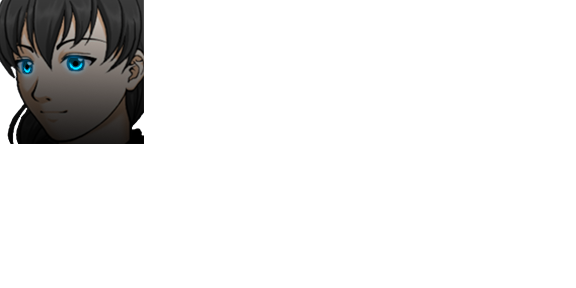
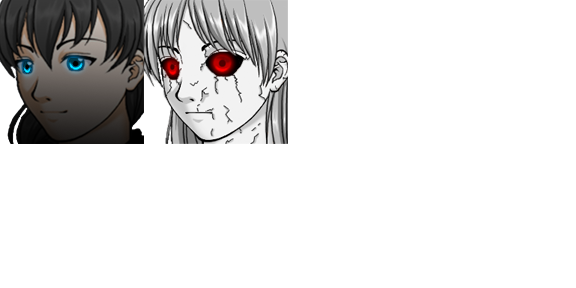
0.3.15.11.
- Нарисовал лицо Смерти.
- Интегрировал её в стартовый диалог с Сидрином.
- Задекорировал начальные кат-сцены.

Changed region(s): [[0.25, 0.0, 0.5, 0.5]]

diff --git a/js/plugins.js b/js/plugins.js
@@ -38,7 +38,7 @@ var $plugins =
 {"name":"GALV_LayerGraphics","status":true,"description":"(v.2.0) Create graphic layers for parallax mapping, fog, etc. View the 'Help' document for plugin commands and info.","parameters":{"Tile Size":"48"}},
 {"name":"GALV_EventSpawner","status":true,"description":"(v.1.8) Spawn events from a specified spawn map to a desired location.","parameters":{"Spawn Map Id":"87"}},
 {"name":"CheckEventTriggerTouchAllFollowers","status":true,"description":"","parameters":{}},
-{"name":"BBS_VersionDisplay","status":true,"description":"v1.02 Adds display of the game version to the title screen.\r\nSpecial Thanks to Tsukihime for all the help.\r\nSpecial Thanks to 'Ramza' Michael Sweeney for all the support.\r\n\r\n============================================================================\r\nParameters\r\n============================================================================","parameters":{"Game Version Number":"0.3.15.10","Game Version Font":"","Version Font Size":"20","Show Version Number?":"true","Version Text Color":"white","Version Outline Color":"black","Version Outline Width":"8","Title Italic":"false","Version Text Max Width":"Graphics.width / 3\r"}},
+{"name":"BBS_VersionDisplay","status":true,"description":"v1.02 Adds display of the game version to the title screen.\r\nSpecial Thanks to Tsukihime for all the help.\r\nSpecial Thanks to 'Ramza' Michael Sweeney for all the support.\r\n\r\n============================================================================\r\nParameters\r\n============================================================================","parameters":{"Game Version Number":"0.3.15.11","Game Version Font":"","Version Font Size":"20","Show Version Number?":"true","Version Text Color":"white","Version Outline Color":"black","Version Outline Width":"8","Title Italic":"false","Version Text Max Width":"Graphics.width / 3\r"}},
 {"name":"LocalMap","status":true,"description":"Local map","parameters":{"Command name":"Карта","Square size":"144","Default player icon":"LM_Player_Riom","Local maps":"[\"{\\\"Name\\\":\\\"Jagged canyon\\\",\\\"Width\\\":\\\"1\\\",\\\"Height\\\":\\\"3\\\"}\",\"{\\\"Name\\\":\\\"Purgatory\\\",\\\"Width\\\":\\\"3\\\",\\\"Height\\\":\\\"3\\\"}\",\"{\\\"Name\\\":\\\"Jagged_Canyon_(chapter 3)\\\",\\\"Width\\\":\\\"4\\\",\\\"Height\\\":\\\"4\\\"}\",\"{\\\"Name\\\":\\\"Jagged_Canyon_(chapter 4)\\\",\\\"Width\\\":\\\"4\\\",\\\"Height\\\":\\\"3\\\"}\"]"}},
 {"name":"FilterController","status":true,"description":"FilterController","parameters":{"Use Decimal in Variables":"true","displacementImage":"DisplacementMap","enabledAll-Settings":"","enabledAll-ShowInOptionMenu":"false","enabledAll-Text":"","enabledAll-DefaultValue":"true"}},
 {"name":"GALV_RollCredits","status":true,"description":"(v.1.5) A plugin that calls a new scene to display scrolling information located in an external text file.","parameters":{"Folder":"data","Skippable":"true","Block Skipping":"true","Title Menu":"Авторы и благодарность","Title Credits Music":""}},
